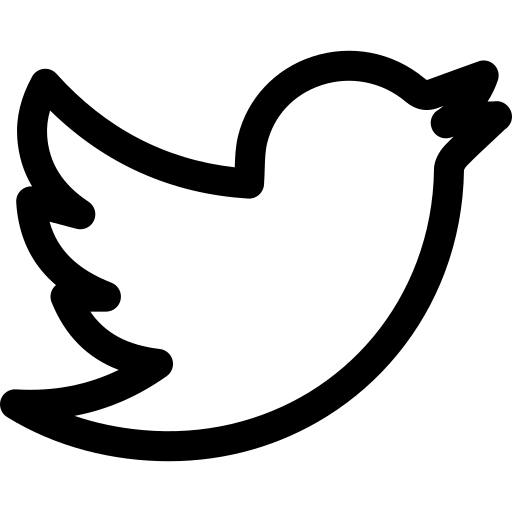
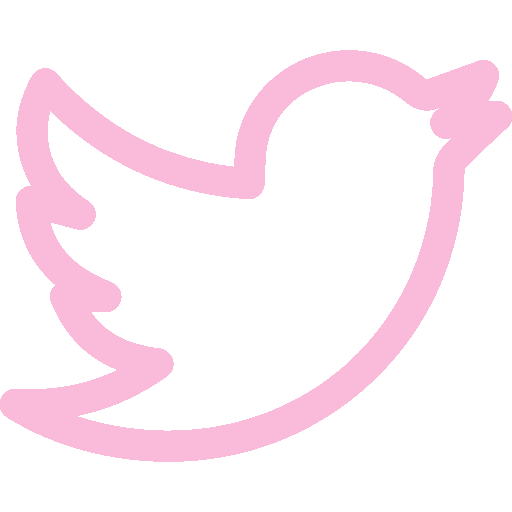
Ajuste iconos

Changed region(s): [[0.0, 0.0938, 1.0, 0.9062]]

diff --git a/index.html b/index.html
@@ -323,9 +323,9 @@
           </div>
         </div>
         <div class="social d-flex justify-content-center">
-          <a class="mx-2" href="https://twitter.com/Kojima_Hideo"><img src="assets/img/email.png" height="55px" width="35px"> <br></a>
-          <a class="mx-2" href="https://www.facebook.com/groups/162920777129849/"><i class="fab fa-facebook-f"></i></a>
-          <a class="mx-2" href="https://github.com/gonlelo/gonlelo.github.io"><i class="fab fa-github"></i></a>
+          <a class="mx-2" href="https://twitter.com/Kojima_Hideo"><img src="assets/img/twitter.png" height="35px" width="35px"> <br></a>
+          <a class="mx-2" href="https://www.facebook.com/groups/162920777129849/"><img src="assets/img/facebook.png" height="35px" width="35px"></a>
+          <a class="mx-2" href="https://github.com/gonlelo/gonlelo.github.io"><img src="assets/img/github.png" height="35px" width="35px"></a>
         </div>
       </div>
     </section>
